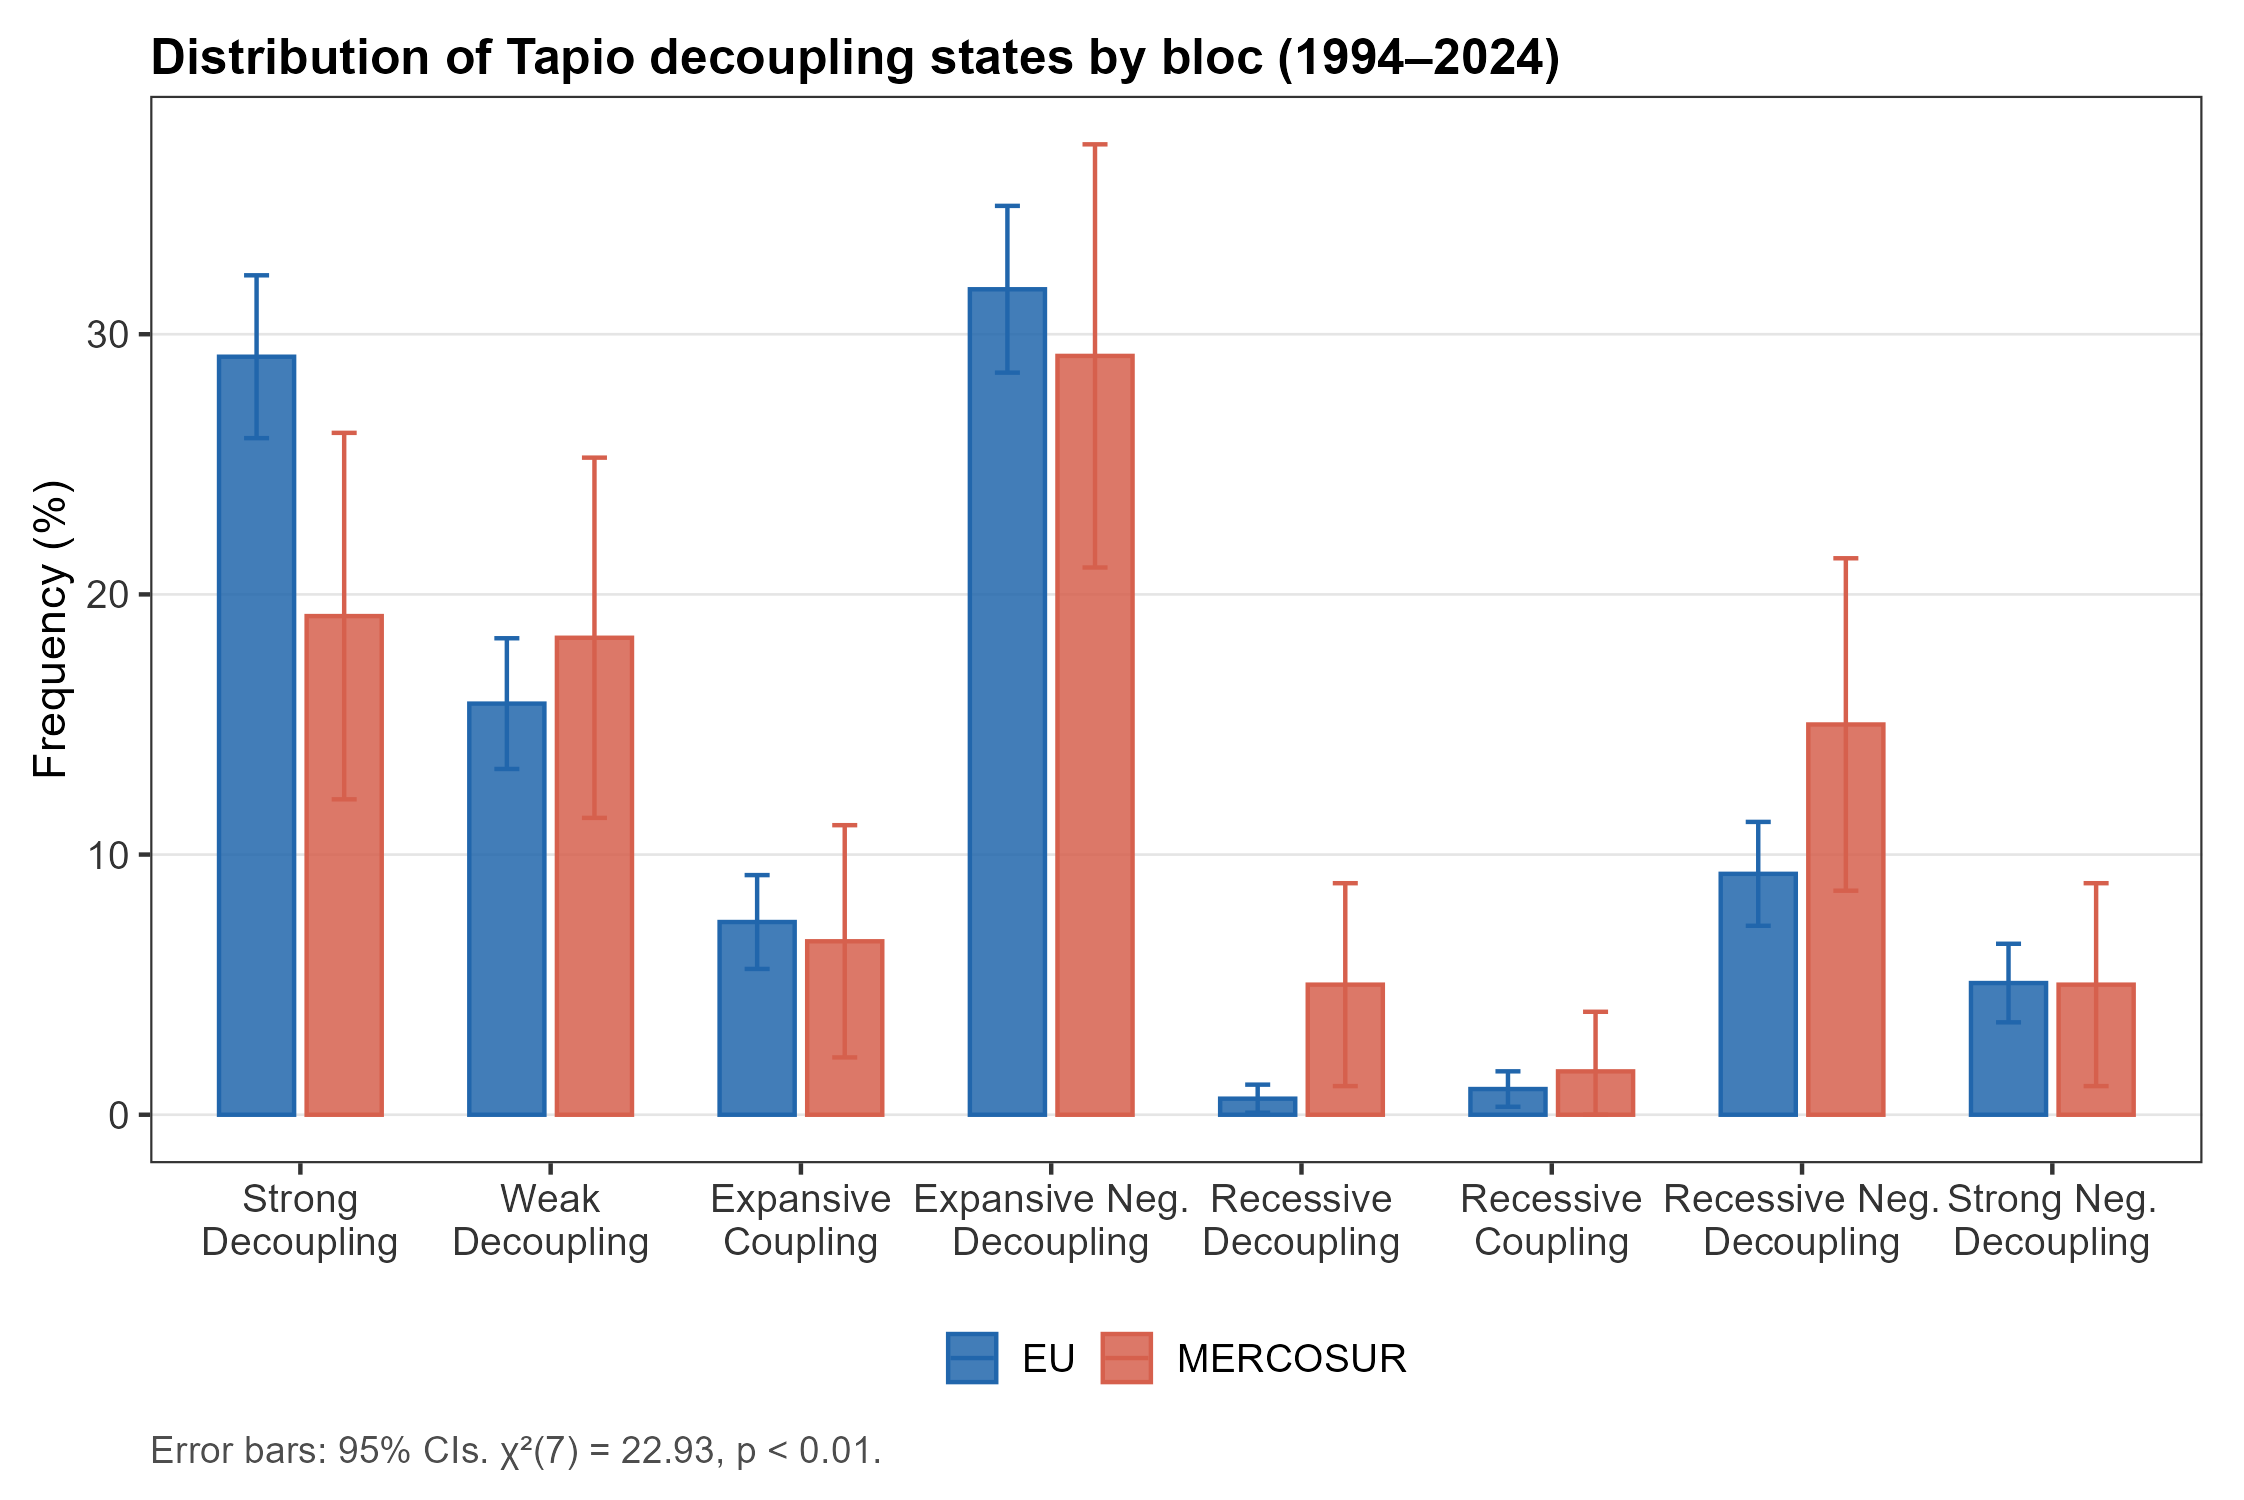
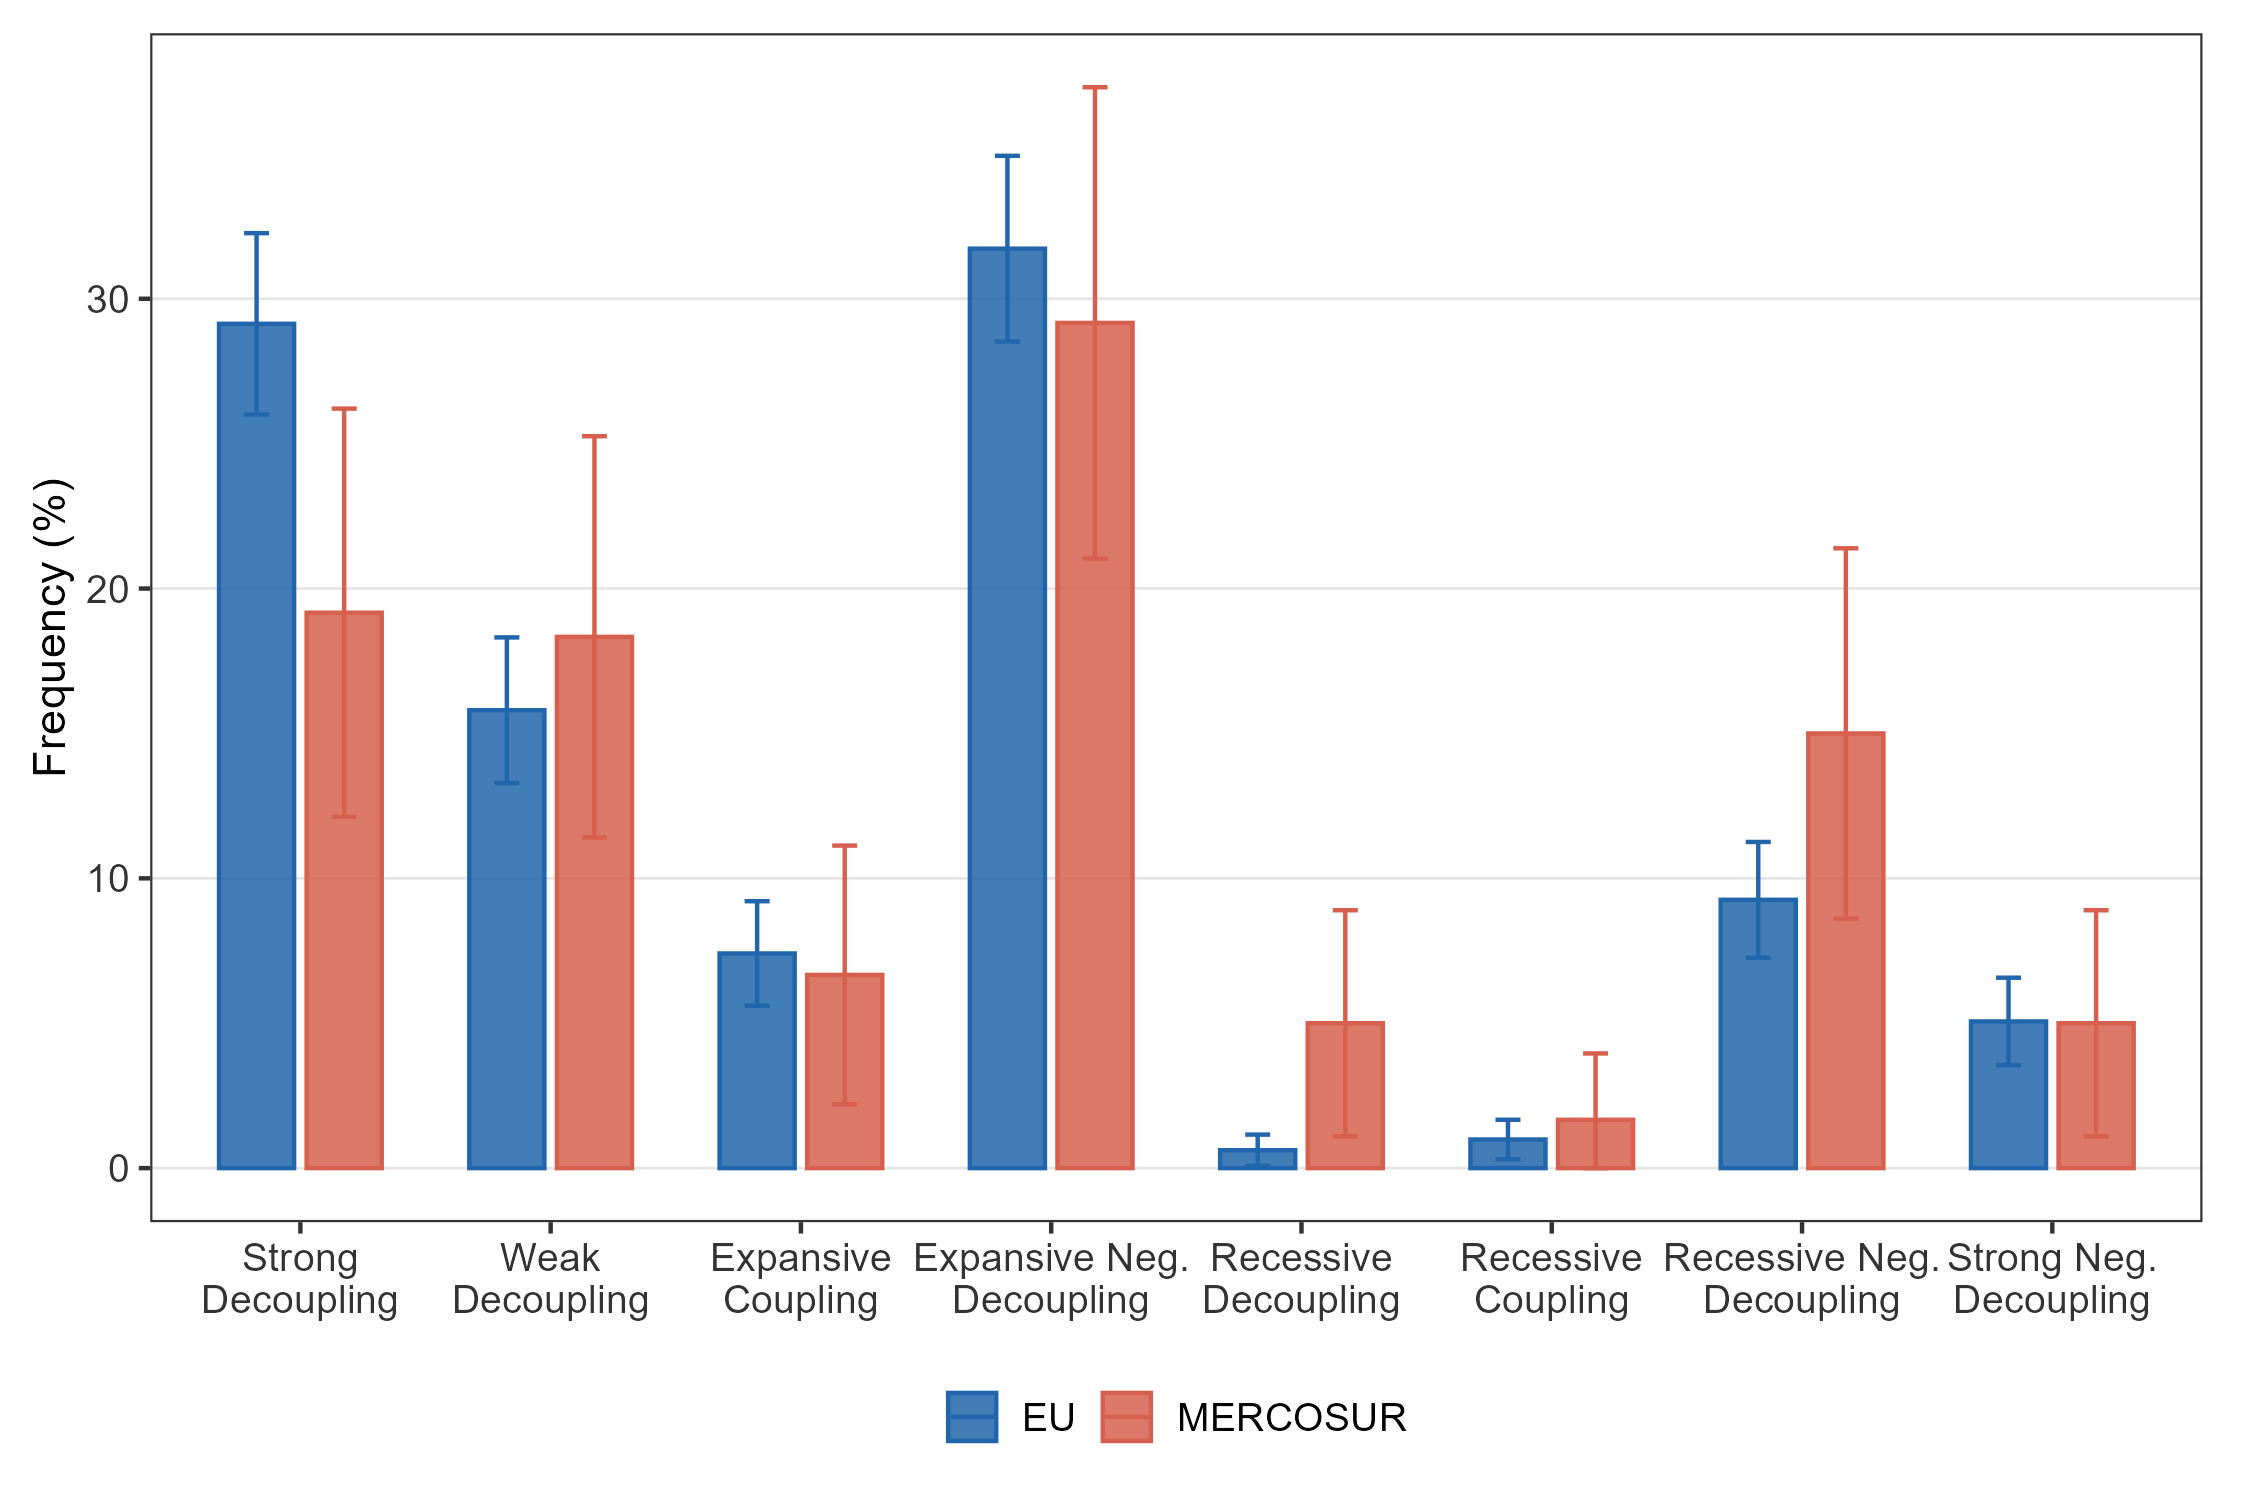
figs: drop embedded titles/subtitles/captions per Elsevier guide; theme to 500dpi TIFF
- 05_figures.R / 06_comtrade.R: remove in-figure title/subtitle/caption from all
  figures (captions live in the manuscript); Fig2 legend fix (drop redundant
  bloc colour legend, longer linetype keys); delete dead duplicate fig7 build
- _paper_theme.R: sync export to 500 dpi TIFF (Elsevier line+colour art)
- README: update to JCP submission (paper title, journal, figure/table numbering)
- output/figures: regenerate all PNGs

diff --git a/README.md b/README.md
@@ -1,9 +1,9 @@
-# Replication Archive: Latent Regimes in Material Footprint Decoupling — EU and MERCOSUR (1994–2024)
+# Replication Archive: The Relative Material Externalisation Gap — EU and MERCOSUR (1994–2024)
 
-**Paper:** "Latent Regimes in Material Footprint Decoupling: EU and MERCOSUR (1994–2024)"  
-**Journal:** *Ecological Economics* (resubmission)  
+**Paper:** "The relative material externalisation gap: a consumption-based indicator of offshored material burdens in resource-efficiency monitoring, with evidence from the EU and MERCOSUR (1994–2024)"  
+**Journal:** *Journal of Cleaner Production* (under review)  
 **Authors:** Raimundo Elías Gómez, María Gabriela Miño  
-**Affiliations:** University of Porto (Institute of Sociology) — R.E. Gómez; CONICET (Posadas, Argentina) — both authors  
+**Affiliation:** Consejo Nacional de Investigaciones Científicas y Técnicas (CONICET) / Facultad de Humanidades y Ciencias Sociales, Universidad Nacional de Misiones (UNaM), Argentina  
 
 ---
 
@@ -19,7 +19,7 @@ replication_repo/
 │   ├── 03_hmm.R            ← HMM K selection (K=2–5) + K=3 main + K=2 robustness
 │   ├── 04_gap_regression.R ← fixed-effects panel regression (fixest)
 │   ├── 05_figures.R        ← all figures (ggplot2 + patchwork)
-│   └── 06_comtrade.R       ← Fig 9: MERCOSUR→EU bilateral flows (httr2 + public API v1)
+│   └── 06_comtrade.R       ← Fig9_comtrade_flows (paper Fig. 7): MERCOSUR→EU bilateral flows (httr2 + public API v1)
 ├── data/
 │   └── processed/
 │       ├── panel_main.csv      ← 31 countries × 1994–2024; MF, DMC, GDP, gap_rel
@@ -27,7 +27,7 @@ replication_repo/
 │       └── panel_regimes.csv   ← panel_tapio + Viterbi regime assignments
 ├── output/
 │   ├── tables/             ← all CSV tables (see list below)
-│   └── figures/            ← all figures as PNG (300dpi TIFFs not included due to size)
+│   └── figures/            ← all figures as PNG (500 dpi TIFFs not included due to size)
 └── LICENSE                 ← CC BY 4.0
 ```
 
@@ -51,8 +51,8 @@ source("R/01_data_prep.R")      # builds data/processed/panel_main.csv
 source("R/02_tapio.R")          # Tapio classification + tables
 source("R/03_hmm.R")            # HMM models; slow (~10 min with 30 restarts)
 source("R/04_gap_regression.R") # regression tables
-source("R/05_figures.R")        # all figures (Fig 1–8)
-source("R/06_comtrade.R")       # Fig 9: MERCOSUR→EU bilateral flows (~40 min)
+source("R/05_figures.R")        # all figures except Fig9_comtrade_flows
+source("R/06_comtrade.R")       # Fig9_comtrade_flows (paper Fig. 7; ~40 min without cache)
 ```
 
 `06_comtrade.R` uses the UN Comtrade public API v1 (no key required). It loops 24 years × 29 HS chapters = 696 API calls and caches each response in `data/processed/comtrade_cache/`. Interrupted runs resume from cache automatically.
@@ -68,16 +68,16 @@ The HMM models are cached in `data/processed/hmm_models_pooled.rds` after first 
 | `tapio_state_distribution.csv` | Tapio state frequency by bloc (n, %, CI) |
 | `tapio_country_summary.csv` | Country-level % SD+WD, median gap_rel, median elasticity |
 | `tapio_rolling_shares.csv` | Rolling 5-yr SD/END shares by bloc and year |
-| `hmm_model_selection.csv` | K=2–5 AIC/BIC/ICL/logLik (Table 1 in paper) |
-| `hmm_k2_robustness.csv` | K=2 regime shares by bloc — K-invariance check (Table S5) |
+| `hmm_model_selection.csv` | K=2–5 AIC/BIC/ICL/logLik (Table S1 in paper) |
+| `hmm_k2_robustness.csv` | K=2 regime shares by bloc — K-invariance check (Table S7) |
 | `hmm_emission_matrix.csv` | P(Tapio state \| regime) for K=3 pooled model |
 | `hmm_transition_matrix.csv` | Transition probabilities for K=3 pooled model |
-| `hmm_regime_summary.csv` | Regime shares + bootstrap CIs by bloc (Table 4) |
+| `hmm_regime_summary.csv` | Regime shares + bootstrap CIs by bloc (Table 3) |
 | `hmm_robustness_summary.csv` | EU-only, MERCOSUR-only, EU-15 HMM summaries |
 | `regression_main.txt` | Formatted regression output (M1, M2, M3) |
 | `regression_coefficients.csv` | Tidy coefficient table for M1 and M2 |
 | `regression_robustness.csv` | EU-only and MERCOSUR-only sub-sample regressions |
-| `regression_gap_denominator_robustness.csv` | SD effect under DMC-normalised and absolute-Mt gap (Table S4) |
+| `regression_gap_denominator_robustness.csv` | SD effect under DMC-normalised and absolute-Mt gap (Table S6) |
 | `fig7_quadrant_thresholds.csv` | Sample median thresholds used in Fig. 7 |
 
 ---
@@ -86,15 +86,18 @@ The HMM models are cached in `data/processed/hmm_models_pooled.rds` after first 
 
 | File | Figure in paper |
 |---|---|
-| `Fig1_tapio_distribution.png` | Fig. 1: Tapio state distribution by bloc |
-| `Fig2_rolling_shares.png` | Fig. 2: Rolling 5-yr SD/END shares |
-| `Fig3_hmm_model_selection.png` | Fig. 3: HMM model selection (AIC/BIC) |
-| `Fig4_transition_heatmap.png` | Fig. 4: Regime transition probability matrix |
-| `Fig5_regime_shares.png` | Fig. 5: Regime time shares with CIs |
-| `Fig6_gap_trajectories.png` | Fig. 6: Externalization gap trajectories |
-| `Fig7_typology_scatter.png` | Fig. 7: Country typology scatter (4 quadrants) |
-| `Fig8_regression_coefs.png` | Fig. 8: Regression coefficient plot |
-| `Fig9_comtrade_flows.png` | Fig. 9: MERCOSUR→EU-27 raw material exports |
+| `Fig1_tapio_distribution.png` | Fig. 3: Tapio state distribution by bloc |
+| `Fig2_rolling_shares.png` | Fig. 4: Rolling 5-yr SD/END shares |
+| `Fig3_hmm_model_selection.png` | Fig. S1: HMM model selection (AIC/BIC/ICL) |
+| `Fig4_transition_heatmap.png` | Fig. S2: Regime transition probability matrix |
+| `Fig5_regime_shares.png` | Fig. 6: Regime time shares with CIs |
+| `Fig6_gap_trajectories.png` | Fig. 1: Externalisation gap trajectories |
+| `Fig7_typology_scatter.png` | Fig. 2: Country typology scatter (4 quadrants) |
+| `Fig8_regression_coefs.png` | Fig. 5: Regression coefficient plot |
+| `Fig9_comtrade_flows.png` | Fig. 7: MERCOSUR→EU-27 raw material exports |
+| `Fig10_S_robustness_hmm.png` | Fig. S3: Robustness HMMs comparison |
+
+Figures carry no embedded titles (Elsevier convention: the caption, including the title, lives in the manuscript). File names keep the original script numbering; the right column gives the figure number in the submitted paper.
 
 ---
 
